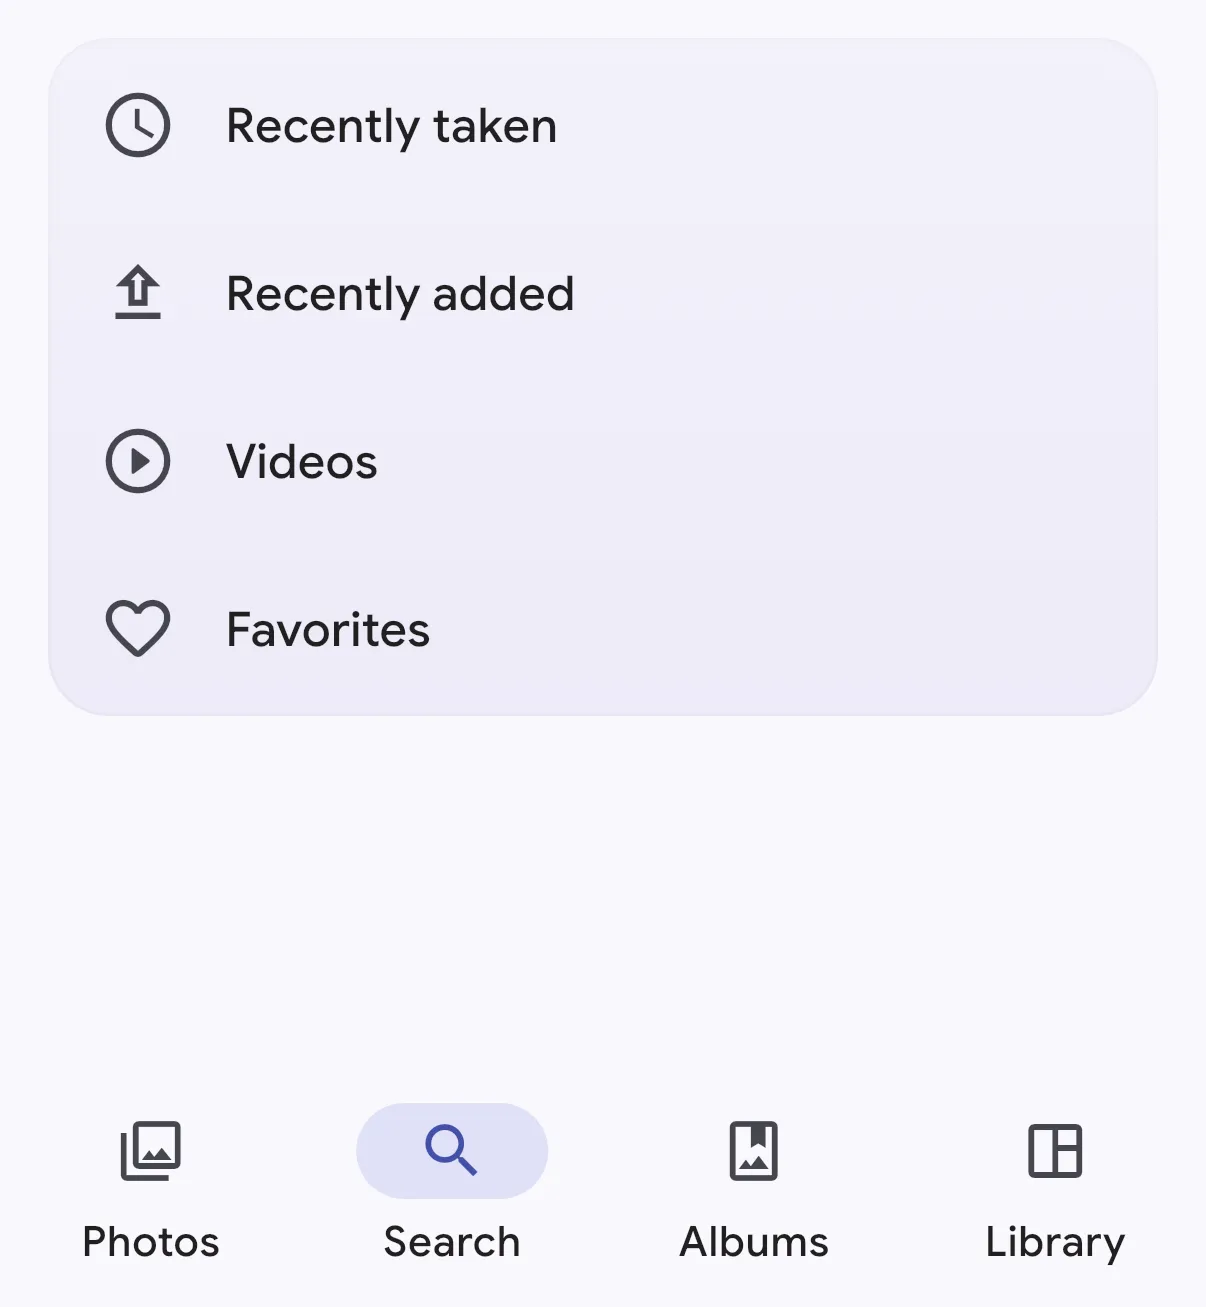
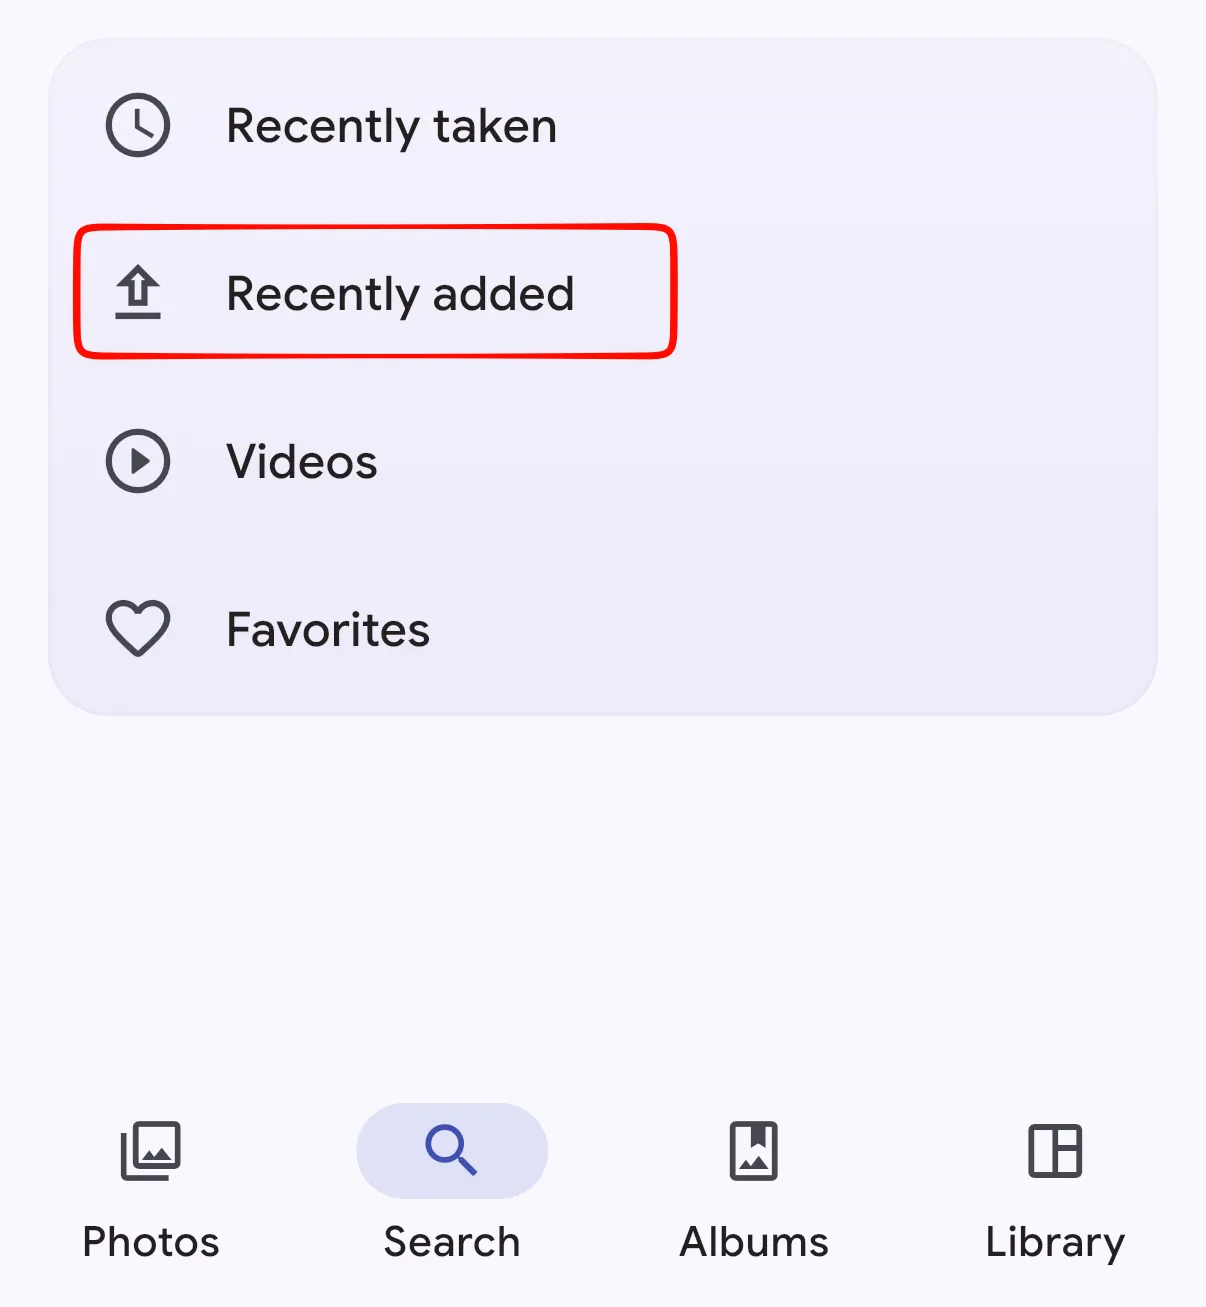
i18n

Changed region(s): [[0.0614, 0.153, 0.5829, 0.2754]]

diff --git a/mobile/lib/presentation/widgets/feature_message/feature_message_placeholder.widget.dart b/mobile/lib/presentation/widgets/feature_message/feature_message_placeholder.widget.dart
@@ -1,8 +1,8 @@
 import 'package:flutter/material.dart';
 import 'package:immich_mobile/extensions/build_context_extensions.dart';
 import 'package:immich_mobile/generated/translations.g.dart';
+import 'package:immich_mobile/widgets/common/immich_logo.dart';
 
-/// Immich "brand splat" palette — the five semantic colors.
 class _SplatColors {
   static const primary = Color(0xFF4250AF);
   static const info = Color(0xFF3B82F6);
@@ -11,8 +11,6 @@ class _SplatColors {
   static const danger = Color(0xFFE5484D);
 }
 
-/// A deliberate placeholder for a "What's new" slide that ships without a
-/// screenshot. Pure shapes + one icon — zero image assets. Fills its parent.
 class FeatureMessagePlaceholder extends StatelessWidget {
   const FeatureMessagePlaceholder({super.key});
 
@@ -23,13 +21,14 @@ class FeatureMessagePlaceholder extends StatelessWidget {
     final cardColor = dark ? const Color(0xFF232228) : const Color(0xFFEEEDF4);
     final tileColor = dark ? const Color(0xFF2B2A32) : const Color(0xFFFBFAFE);
     final inkColor = dark ? const Color(0xFFE7E7EC) : const Color(0xFF1A1A1E);
-    final accent = dark ? const Color(0xFF9AA6DA) : _SplatColors.primary;
 
     return Container(
       width: double.infinity,
       height: double.infinity,
       clipBehavior: Clip.antiAlias,
-      decoration: BoxDecoration(color: cardColor, borderRadius: const BorderRadius.all(Radius.circular(24))),
+      // Fill a plain rectangle — the parent's ClipRRect handles the corner rounding,
+      // so the placeholder doesn't round its own corners inside that clip.
+      decoration: BoxDecoration(color: cardColor),
       child: Column(
         mainAxisAlignment: MainAxisAlignment.center,
         children: [
@@ -70,7 +69,7 @@ class FeatureMessagePlaceholder extends StatelessWidget {
                         alignment: Alignment.center,
                         children: [
                           Positioned(left: 12, top: 12, child: _dot(12, _SplatColors.warning)),
-                          Icon(Icons.auto_awesome, size: 34, color: accent),
+                          const ImmichLogo(size: 40),
                         ],
                       ),
                     ),
@@ -89,8 +88,11 @@ class FeatureMessagePlaceholder extends StatelessWidget {
     );
   }
 
-  static Widget _dot(double d, Color c) =>
-      Container(width: d, height: d, decoration: BoxDecoration(color: c, shape: BoxShape.circle));
+  static Widget _dot(double d, Color c) => Container(
+    width: d,
+    height: d,
+    decoration: BoxDecoration(color: c, shape: BoxShape.circle),
+  );
 
   static Widget _bar(double w, double h, double angle, Color c) => Transform.rotate(
     angle: angle,

diff --git a/mobile/lib/presentation/widgets/feature_message/feature_message_dialog.widget.dart b/mobile/lib/presentation/widgets/feature_message/feature_message_dialog.widget.dart
@@ -101,7 +101,10 @@ class _FeatureMessageDialogState extends State<_FeatureMessageDialog> with Singl
                   crossAxisAlignment: CrossAxisAlignment.start,
                   mainAxisSize: MainAxisSize.min,
                   children: [
-                    Text(context.t.whats_new, style: context.textTheme.titleLarge?.copyWith(fontWeight: FontWeight.w700)),
+                    Text(
+                      context.t.whats_new,
+                      style: context.textTheme.titleLarge?.copyWith(fontWeight: FontWeight.w700),
+                    ),
                     const SizedBox(height: 2),
                     Text(
                       context.t.whats_new_version(version: featureMessageRelease.toString()),

diff --git a/mobile/lib/pages/common/settings.page.dart b/mobile/lib/pages/common/settings.page.dart
@@ -2,7 +2,6 @@ import 'package:auto_route/auto_route.dart';
 import 'package:easy_localization/easy_localization.dart';
 import 'package:flutter/material.dart';
 import 'package:flutter_hooks/flutter_hooks.dart' hide Store;
-import 'package:immich_mobile/domain/models/feature_message.model.dart';
 import 'package:immich_mobile/extensions/build_context_extensions.dart';
 import 'package:immich_mobile/generated/translations.g.dart';
 import 'package:immich_mobile/routing/router.dart';